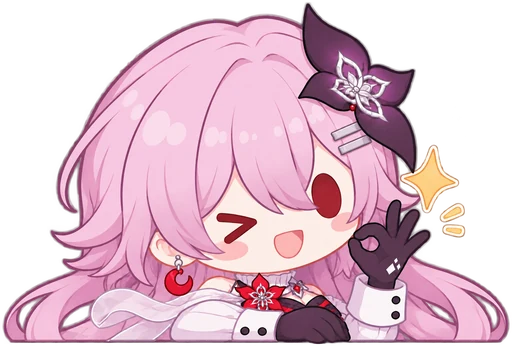
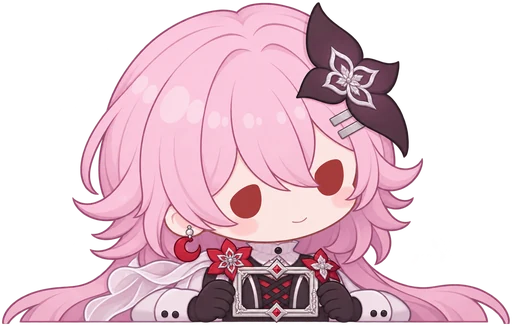
feat: 区分总览与空状态的角色构图，更新长夜月动作
总览的运行、完成、异常和待配置状态分别使用查看终端、撑伞、检查任务单和托起忆灵。关闭窗口沿用完成时的黑伞。账号及运行历史空页共享半身空相框，默认主题的总览待配置使用全身比 OK。按默认图路径匹配长夜素材，并验证两类构图。

diff --git a/tests/test_app/test_mascot.py b/tests/test_app/test_mascot.py
@@ -30,12 +30,44 @@ def test_all_assets():
 def test_evernight_assets():
     directory = Path(mascot_path(Mascot.FULL)).parent / "evernight"
     assert {p.stem for p in directory.glob("*.webp")} == {POSES[name] for name in EVERNIGHT}
-    assert sum(p.stat().st_size for p in directory.glob("*.webp")) < 400_000
+    assert sum(p.stat().st_size for p in directory.glob("*.webp")) < 75_000 * len(EVERNIGHT)
+    for asset in directory.rglob("*.webp"):
+        image = QImage(str(asset))
+        assert image.hasAlphaChannel() and max(image.width(), image.height()) == 512
     for state in ("ready", "running", "completed", "failed", "setup", "stopped"):
-        path = Path(mascot_path(Mascot(sample_snapshot(state).greeting.mascot), evernight=True))
-        assert path.parent == directory
-        img = QImage(str(path))
-        assert img.hasAlphaChannel() and max(img.width(), img.height()) == 512
+        pose = Mascot(sample_snapshot(state).greeting.mascot)
+        path = Path(mascot_path(pose, evernight=True, overview=True))
+        if state == "setup":
+            assert path.parent == directory / "overview"
+            assert Path(mascot_path(pose, evernight=True)).parent == directory
+        else:
+            assert path.parent == directory
+        regular = Path(mascot_path(pose, overview=True))
+        if state == "setup":
+            assert regular == directory.parent / "overview" / "chibi_ok.webp"
+            assert Path(mascot_path(pose)) == directory.parent / "chibi_ok.webp"
+            full_body = QImage(str(regular))
+            assert full_body.hasAlphaChannel() and 0 < full_body.width() < full_body.height() == 512
+        else:
+            assert regular == Path(mascot_path(pose))
+
+
+def test_same_default_art_uses_same_evernight_art():
+    root = Path(mascot_path(Mascot.FULL)).parent
+    for pose in Mascot:
+        for overview in (False, True):
+            regular = Path(mascot_path(pose, overview=overview))
+            themed = root / "evernight" / regular.relative_to(root)
+            expected = themed if themed.is_file() else regular
+            assert Path(mascot_path(pose, evernight=True, overview=overview)) == expected
+
+
+def test_empty_pages_use_a_bust_and_overview_uses_a_full_figure():
+    for evernight in (False, True):
+        bust = QImage(mascot_path(Mascot.OK, evernight=evernight))
+        overview = QImage(mascot_path(Mascot.OK, evernight=evernight, overview=True))
+        assert bust.width() > bust.height() > 0
+        assert overview.height() > overview.width() > 0
 
 
 def test_setup_rail_keeps_march7th_in_evernight(qtbot):

diff --git a/assets/scripts/prepare_mascot.py b/assets/scripts/prepare_mascot.py
@@ -14,6 +14,11 @@ POSES = {
     "抱纸箱": "chibi_box",
 }
 EVERNIGHT = ("全身站立", "敲电脑", "挥手", "拿地图发懵", "探头比OK")
+EVERNIGHT_VARIANTS = {
+    "查看终端": "chibi_typing", "单手撑黑伞": "chibi_wave",
+    "检查任务单": "chibi_lost", "托起忆灵": "overview/chibi_ok",
+    "手持空相框": "chibi_ok", "半身手持空相框": "chibi_ok",
+}
 
 
 def prepare(source: Path, destination: Path = DESTINATION, *, evernight: bool = False):
@@ -21,11 +26,13 @@ def prepare(source: Path, destination: Path = DESTINATION, *, evernight: bool = 
     if evernight:
         # 允许逐张补图。长夜月的原图单独放在一个目录。
         prefix = "长夜月_"
-        poses = {name: POSES[name] for name in EVERNIGHT if (source / f"{prefix}{name}.png").is_file()}
+        candidates = {name: POSES[name] for name in EVERNIGHT} | EVERNIGHT_VARIANTS
+        poses = {name: stem for name, stem in candidates.items() if (source / f"{prefix}{name}.png").is_file()}
         destination = destination / "evernight"
         if not poses:
-            raise ValueError("指定目录中没有长夜月的五种问候姿势")
-    destination.mkdir(parents=True, exist_ok=True)
+            raise ValueError("指定目录中没有可用的长夜月原图")
+    elif (source / "全身比OK.png").is_file():
+        poses = POSES | {"全身比OK": "overview/chibi_ok"}
     for name, stem in poses.items():
         with Image.open(source / f"{prefix}{name}.png") as original:
             rgba = original.convert("RGBA")
@@ -35,7 +42,9 @@ def prepare(source: Path, destination: Path = DESTINATION, *, evernight: bool = 
         left, top, right, bottom = box
         cropped = rgba.crop((left - 6, top - 6, right + 6, bottom + 6))
         cropped.thumbnail((512, 512), Image.Resampling.LANCZOS, reducing_gap=None)
-        cropped.save(destination / f"{stem}.webp", "WEBP", quality=88, method=6)
+        target = destination / f"{stem}.webp"
+        target.parent.mkdir(parents=True, exist_ok=True)
+        cropped.save(target, "WEBP", quality=88, method=6)
 
 
 if __name__ == "__main__":

diff --git a/app/overview/greeting.py b/app/overview/greeting.py
@@ -49,10 +49,11 @@ def squash_amount(elapsed, start=0.0):
 class MascotWidget(QWidget):
     """Q 版小人。点一下会压扁再弹回，连点时从当前的形变继续。"""
 
-    def __init__(self, parent=None, *, max_width=MASCOT_MAX_WIDTH):
+    def __init__(self, parent=None, *, max_width=MASCOT_MAX_WIDTH, overview=False):
         super().__init__(parent)
         self.setCursor(Qt.CursorShape.PointingHandCursor)
         self._max_width = max_width
+        self._overview = overview
         self._pose = Mascot.FULL
         self._override = None
         self._evernight = False
@@ -82,10 +83,10 @@ class MascotWidget(QWidget):
         pose = self.pose()
         ratio = self.devicePixelRatioF() or 1.0
         self._ratio = ratio
-        pixmap = load_mascot(pose, MASCOT_HEIGHT, ratio, evernight=self._evernight)
+        pixmap = load_mascot(pose, MASCOT_HEIGHT, ratio, evernight=self._evernight, overview=self._overview)
         if not pixmap.isNull() and pixmap.width() / ratio > self._max_width:
             height = int(MASCOT_HEIGHT * self._max_width / (pixmap.width() / ratio))
-            pixmap = load_mascot(pose, height, ratio, evernight=self._evernight)
+            pixmap = load_mascot(pose, height, ratio, evernight=self._evernight, overview=self._overview)
         self._pixmap = pixmap
         # 压扁时变宽，弹起时变高，两侧和上方留出余量。
         self.setFixedSize(self.imageSize().width() + 2 * self._sideRoom(),
@@ -263,7 +264,7 @@ class GreetingCard(QWidget):
         self.buttonLayout = QHBoxLayout(self.buttonBox)
         self.buttonLayout.setContentsMargins(0, 0, 0, 0)
         self.buttonLayout.setSpacing(8)
-        self.mascot = MascotWidget(self)
+        self.mascot = MascotWidget(self, overview=True)
         self.crossfade = ImageCrossFade(self)
         self.logoHint = LogoHint(self, self._hintRight)
         self.logoHint.animation.finished.connect(lambda: self.mascot.setOverride(None))

diff --git a/app/common/mascot.py b/app/common/mascot.py
@@ -25,16 +25,22 @@ class Mascot(str, Enum):
     BOX = "chibi_box"
 
 
-def mascot_path(pose: Mascot, *, evernight: bool = False) -> str:
+def mascot_path(pose: Mascot, *, evernight: bool = False, overview: bool = False, section: str = "") -> str:
     root = "./assets/app/images/mascot"
     filename = f"{pose.value}.webp"
+    if overview:
+        section = "overview"
+    # 先确定默认主题的原图。同一张三月七在所有场景共用同一张长夜月。
+    if section and Path(root, section, filename).is_file():
+        filename = f"{section}/{filename}"
     if evernight and Path(root, "evernight", filename).is_file():
         return f"{root}/evernight/{filename}"
     return f"{root}/{filename}"
 
 
-def load_mascot(pose: Mascot, height: int, dpr: float = 1.0, *, evernight: bool = False) -> QPixmap:
-    path = mascot_path(pose, evernight=evernight)
+def load_mascot(pose: Mascot, height: int, dpr: float = 1.0, *, evernight: bool = False,
+                overview: bool = False, section: str = "") -> QPixmap:
+    path = mascot_path(pose, evernight=evernight, overview=overview, section=section)
     if height <= 0 or dpr <= 0:
         return QPixmap()
     key = f"mascot:{Path(path).absolute()}:{height}:{dpr}"

diff --git a/assets/app/images/mascot/README.md b/assets/app/images/mascot/README.md
@@ -8,7 +8,8 @@
 | chibi_typing.webp | 敲电脑 | 问候区运行中 |
 | chibi_wave.webp | 挥手 | 问候区今日全部完成，首次配置向导，关闭程序确认 |
 | chibi_lost.webp | 拿地图发懵 | 问候区运行失败 |
-| chibi_ok.webp | 探头比OK | 问候区还没配好，首次配置向导，账号页和运行记录为空 |
+| chibi_ok.webp | 探头比OK | 首次配置向导，账号页和运行记录为空 |
+| overview/chibi_ok.webp | 全身比OK | 默认主题问候区「还差一步就能开始」 |
 | chibi_camera.webp | 举相机 | 工具箱的游戏截图卡 |
 | chibi_gift.webp | 抱礼盒 | 发现新版本 |
 | chibi_serious.webp | 认真 | 帮助页「没找到答案？」，首次配置向导，账号密码，启用多账号，免 UAC、后台模式、临时降低画质、关闭更新检测、模拟宇宙、触屏模式的确认 |
@@ -23,7 +24,7 @@
 
 用 alpha > 8 的内容范围向外留 6 个原图像素，以 LANCZOS 将长边缩至 512 px，保存带透明通道的 WebP（quality 88，method 6）。建议逻辑高度为问候区 170～200 px、空状态 220～250 px、对话框 96～120 px、帮助小卡约 100 px。
 
-在仓库根目录用安装了 Pillow 的 Python 执行以下命令。原图名为表中「姿势」加 `.png`，长夜月的原图前面再加 `长夜月_`。
+在仓库根目录用安装了 Pillow 的 Python 执行以下命令。原图名为表中「姿势」加 `.png`，长夜月的原图前面再加 `长夜月_`。默认主题原图目录中可附加 `全身比OK.png`，用于导出总览专图。
 
 ```powershell
 python assets/scripts/prepare_mascot.py --source "D:\素材\Q版"
@@ -32,6 +33,15 @@ python assets/scripts/prepare_mascot.py --source "D:\素材\长夜月" --evernig
 
 ## 长夜月
 
-`evernight/` 里是长夜主题用的 Q 版长夜月，由项目作者提供，文件名和规格与三月七相同，共 5 个姿势：全身站立、敲电脑、挥手、拿地图发懵、探头比OK，用于问候区、账号页和运行记录的空页面、关于页和关闭程序确认。其他位置没有对应的图，自动显示三月七；首次配置向导只有部分姿势有图，全程用三月七。
+`evernight/` 下的插画与默认主题的文件一一对应。同一张三月七插画出现在哪里，就在相同位置显示对应的长夜月。首次配置向导全程显示三月七。缺少对应插画的场景沿用默认图。
 
-长夜月的原图单独放在一个目录，可以只放要更新的几张。
+| 使用位置 | 原图文件名 | 相对于 `evernight/` 的输出 |
+|---|---|---|
+| 总览就绪、已停止、读取状态失败，关于页 | 长夜月_全身站立.png | chibi_full.webp |
+| 任务运行中 | 长夜月_查看终端.png | chibi_typing.webp |
+| 今天的任务都做完了，关闭窗口确认 | 长夜月_单手撑黑伞.png | chibi_wave.webp |
+| 任务需要处理 | 长夜月_检查任务单.png | chibi_lost.webp |
+| 还差一步就能开始（默认主题为全身比 OK） | 长夜月_托起忆灵.png | overview/chibi_ok.webp |
+| 账号页与运行历史为空（两种主题均为半身构图） | 长夜月_半身手持空相框.png | chibi_ok.webp |
+
+长夜月的原图单独放在一个目录，可以只放要更新的几张；仍可用原来的文件名导出。若同一输出同时有新旧两张原图，以上表的原图为准。
